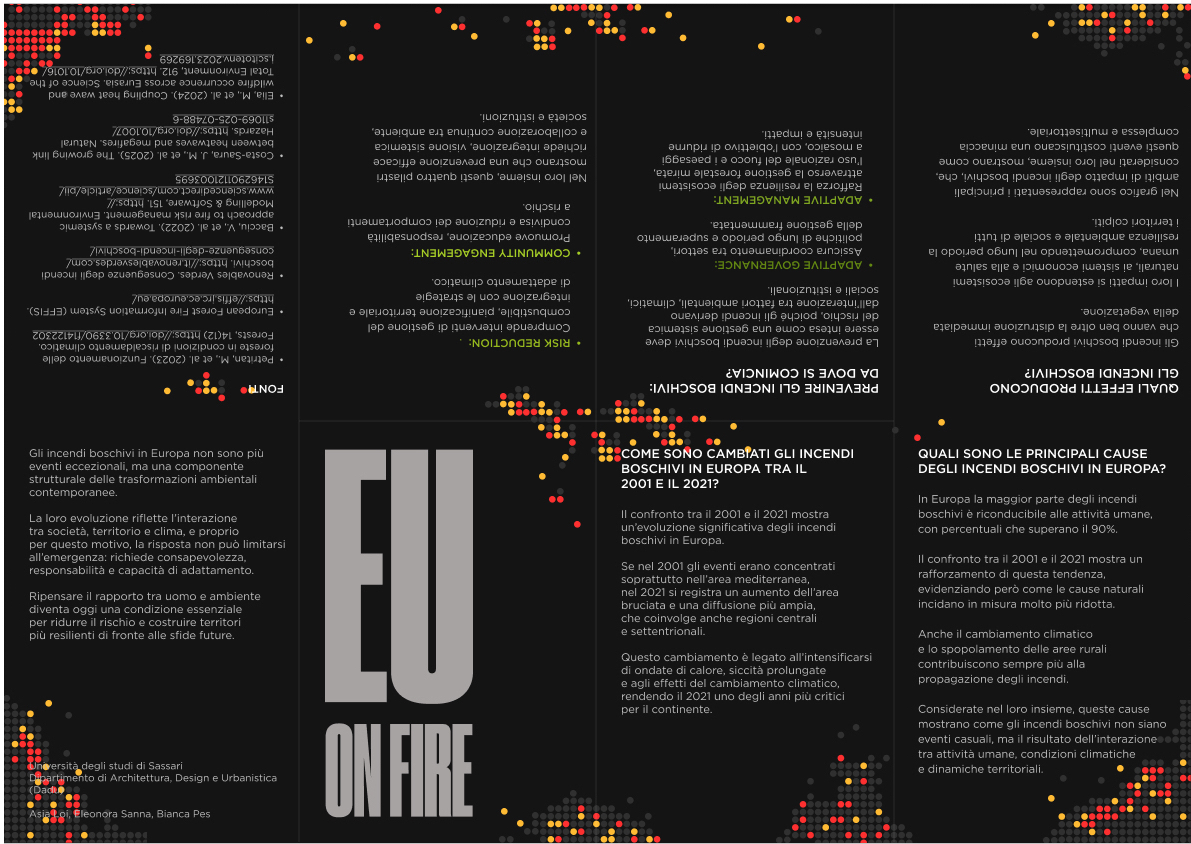
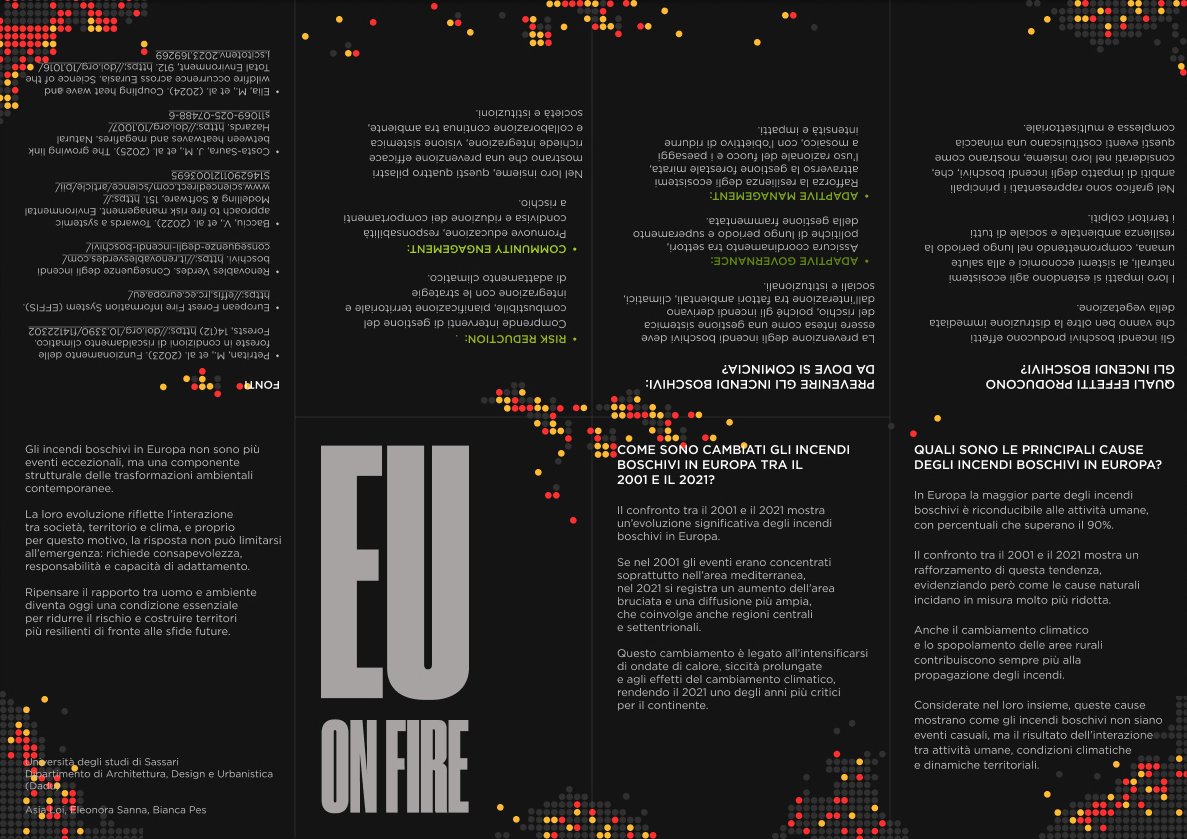
esanna: Recorte del folleto EU on fire y ajuste de márgenes de About me

diff --git a/src/pages/home/Home.vue b/src/pages/home/Home.vue
@@ -93,9 +93,11 @@ function scrollToSection(sectionId: string) {
 
 <section
   id="about-me"
-  class="relative min-h-svh scroll-mt-14 overflow-hidden
+  class="relative flex min-h-svh flex-col justify-center
+         scroll-mt-14 overflow-hidden
          bg-white px-6 py-16 text-black sm:px-12
-         lg:min-h-[calc(100svh-3.5rem)]"
+         lg:min-h-[calc(100svh-3.5rem)]
+         lg:pt-[58px] lg:pb-[70px]"
 >
   <h2 class="text-5xl font-medium leading-tight tracking-tight sm:text-7xl">
     hello-<br />
